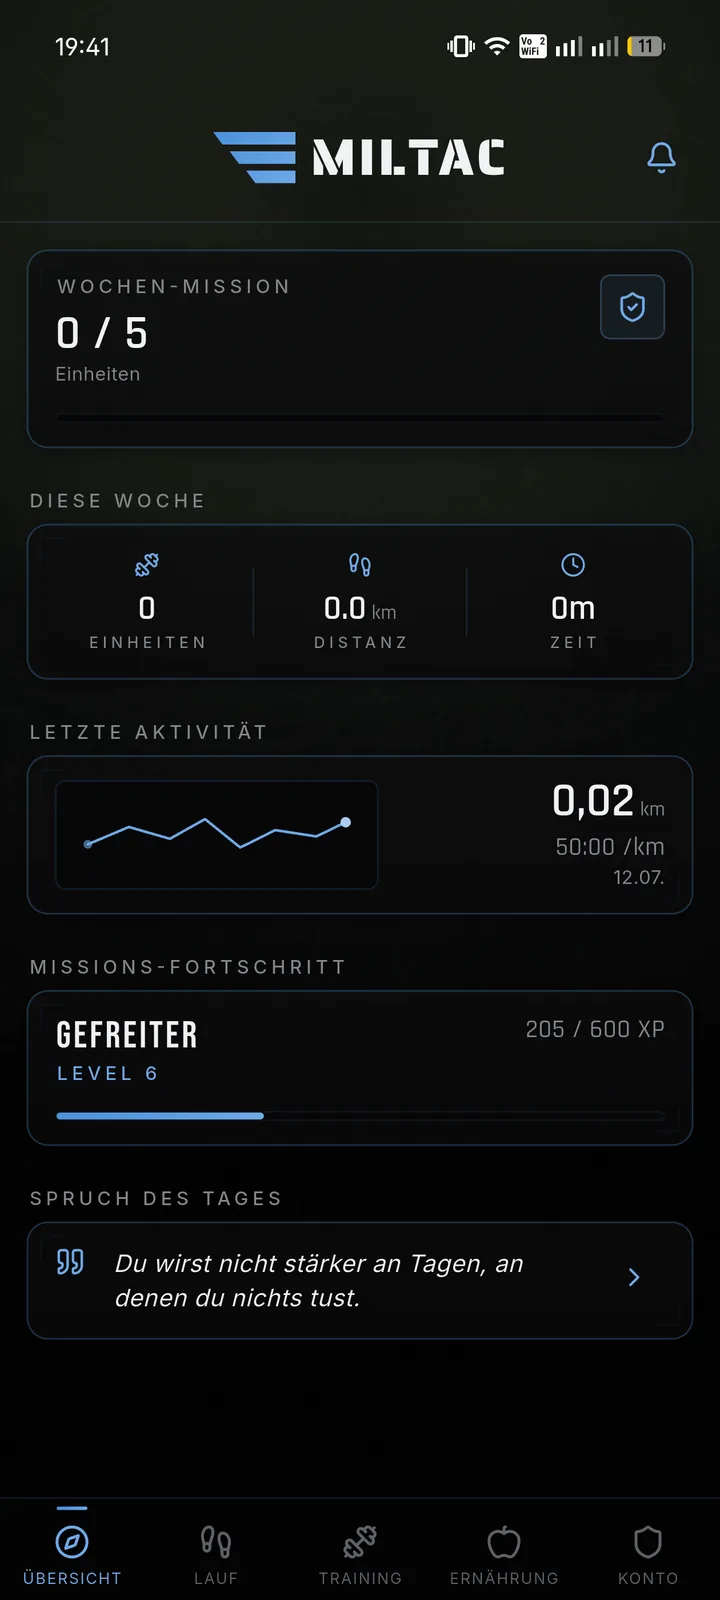
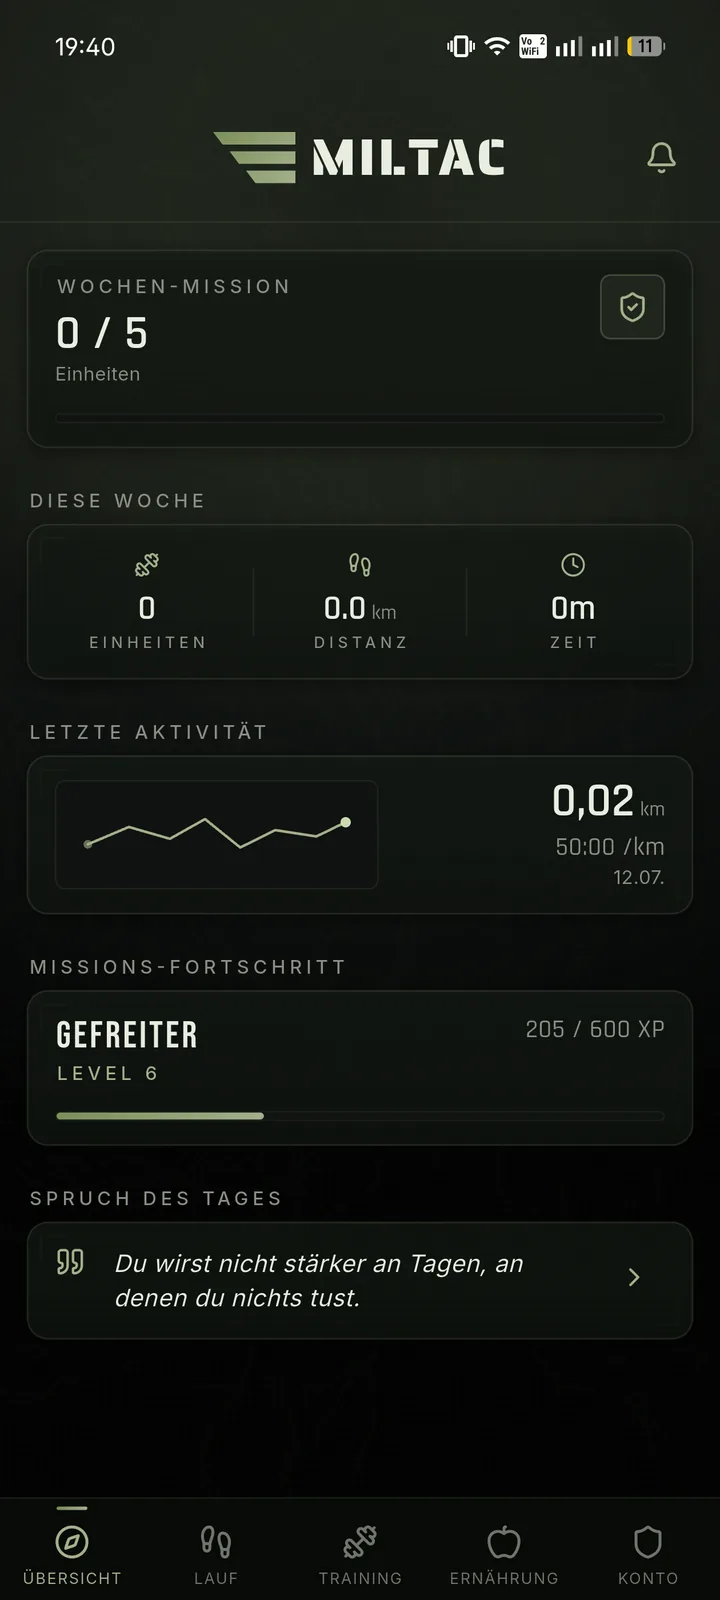
Add Übersicht screenshot and three-column app section; brand reference in README
Claude-Session: https://claude.ai/code/session_012DaZexe5eSJrjcBck6RWEU

diff --git a/index.html b/index.html
@@ -98,18 +98,16 @@
 
   <!-- ================= SCREENSHOTS ================= -->
   <section class="section alt" id="app">
-    <div class="container split">
-      <div>
-        <p class="eyebrow reveal">Ein Blick in die App</p>
-        <h2 class="reveal">Klar. Dunkel. Auf den Punkt.</h2>
-        <p class="lead reveal">Kein Feed, keine Ablenkung. Fünf Bereiche — Übersicht, Lauf, Training, Ernährung, Konto — und jede Zahl, die zählt, auf einen Blick.</p>
-        <ul class="checklist reveal">
-          <li><svg viewBox="0 0 24 24" fill="none" stroke="currentColor" stroke-width="2" stroke-linecap="round" stroke-linejoin="round" aria-hidden="true"><path d="M20 6 9 17l-5-5"/></svg><div><strong>Wochen-Mission &amp; Level-System</strong><span>Vom Rekruten aufwärts: Jede Einheit bringt XP, jede Woche ein Ziel.</span></div></li>
-          <li><svg viewBox="0 0 24 24" fill="none" stroke="currentColor" stroke-width="2" stroke-linecap="round" stroke-linejoin="round" aria-hidden="true"><path d="M20 6 9 17l-5-5"/></svg><div><strong>Fertige Einheiten nach Kategorie</strong><span>Laufen, Kraft, Kondition, Mobilität, Erholung — mit Dauer und Schwierigkeitsgrad.</span></div></li>
-          <li><svg viewBox="0 0 24 24" fill="none" stroke="currentColor" stroke-width="2" stroke-linecap="round" stroke-linejoin="round" aria-hidden="true"><path d="M20 6 9 17l-5-5"/></svg><div><strong>Makros im Blick</strong><span>Kalorien, Protein, Kohlenhydrate und Fett pro Mahlzeit und für den ganzen Tag.</span></div></li>
-        </ul>
-      </div>
+    <div class="container">
+      <p class="eyebrow reveal">Ein Blick in die App</p>
+      <h2 class="reveal">Klar. Dunkel. Auf den Punkt.</h2>
+      <p class="lead reveal">Kein Feed, keine Ablenkung. Fünf Bereiche — Übersicht, Lauf, Training, Ernährung, Konto — und jede Zahl, die zählt, auf einen Blick.</p>
+
       <div class="screens reveal">
+        <figure class="screen-frame">
+          <img src="assets/screen-uebersicht.webp" width="720" height="1600" loading="lazy" alt="MilTac Übersicht: Wochen-Mission, Statistiken der Woche, letzte Aktivität und Missions-Fortschritt">
+          <figcaption>Übersicht</figcaption>
+        </figure>
         <figure class="screen-frame">
           <img src="assets/screen-training.webp" width="720" height="1600" loading="lazy" alt="MilTac Training: Liste der Einheiten mit Kategorie, Schwierigkeit und Dauer">
           <figcaption>Training</figcaption>
@@ -118,6 +116,12 @@
           <img src="assets/screen-ernaehrung.webp" width="720" height="1600" loading="lazy" alt="MilTac Ernährung: Tagesübersicht mit Kalorien und Makronährstoffen">
           <figcaption>Ernährung</figcaption>
         </figure>
+      </div>
+
+      <div class="grid cols-3 screen-notes reveal">
+        <div><strong>Wochen-Mission &amp; Level-System</strong><span>Vom Rekruten aufwärts: Jede Einheit bringt XP, jede Woche ein Ziel.</span></div>
+        <div><strong>Fertige Einheiten nach Kategorie</strong><span>Laufen, Kraft, Kondition, Mobilität, Erholung — mit Dauer und Schwierigkeitsgrad.</span></div>
+        <div><strong>Makros im Blick</strong><span>Kalorien, Protein, Kohlenhydrate und Fett pro Mahlzeit und für den ganzen Tag.</span></div>
       </div>
     </div>
   </section>

diff --git a/style.css b/style.css
@@ -267,8 +267,12 @@ p { margin: 0 0 1em; }
 /* --------------------------------------------------------------------------
    App-Screenshots
    -------------------------------------------------------------------------- */
-.screens { display: grid; grid-template-columns: 1fr 1fr; gap: 20px; align-items: start; }
-.screens .screen-frame:nth-child(2) { margin-top: 56px; }
+.screens { display: grid; grid-template-columns: repeat(3, 1fr); gap: 24px; align-items: start; margin-top: 48px; max-width: 900px; }
+.screens .screen-frame:nth-child(2) { margin-top: -28px; }
+.screen-notes { margin-top: 44px; max-width: 900px; }
+.screen-notes div { border-top: 2px solid var(--accent); padding-top: 14px; }
+.screen-notes strong { display: block; margin-bottom: 4px; }
+.screen-notes span { color: var(--muted); font-size: 0.95rem; }
 .screen-frame {
   margin: 0;
   border-radius: 26px;
@@ -391,7 +395,14 @@ p { margin: 0 0 1em; }
   .hero { padding-top: 64px; }
   .phone { width: 250px; }
   .phone-img { width: min(100%, 320px); }
-  .screens .screen-frame:nth-child(2) { margin-top: 32px; }
+  .screens {
+    display: flex; gap: 16px; overflow-x: auto; scroll-snap-type: x mandatory;
+    padding: 8px 4px 20px; margin-top: 32px; max-width: none;
+    scrollbar-width: none;
+  }
+  .screens::-webkit-scrollbar { display: none; }
+  .screens .screen-frame { flex: 0 0 74%; scroll-snap-align: center; }
+  .screens .screen-frame:nth-child(2) { margin-top: 0; }
   .about-visual img { min-height: 0; height: 240px; }
   .about-visual .panel { position: static; width: auto; border-radius: 0; border: 0; border-top: 1px solid var(--border); background: var(--card); }
   .screen .s-box { padding: 9px 10px; }

diff --git a/README.md b/README.md
@@ -52,4 +52,10 @@ DNS-Änderungen brauchen je nach Anbieter einige Minuten bis wenige Stunden. Git
 
 - [ ] Google-Play-Link in `index.html` eintragen (zwei Stellen, mit `TODO` markiert), sobald die App gelistet ist
 - [ ] USt-IdNr. in `impressum.html` ergänzen, sobald erteilt (auskommentierter Block)
-- [ ] Optional: Screenshot der Übersicht im Oliv-Theme nachreichen (aktuell nur in Blau vorhanden, daher nicht eingebaut)
+
+## Marken-Kurzreferenz
+
+- **Farben:** Hintergrund `#0F1210`, Karten `#171D16`, Text `#E6E8E1`, gedämpft `#8A8F84`, Akzent Oliv `#A3B18A` (Streifen: `#8E9F70` / `#99A97F` / `#A3B18A`)
+- **Logo:** drei waagerechte Streifen, rechte Kante bündig, linke Kante schräg (oben längster Streifen) — Vektor in `assets/logo-mark.svg`
+- **Schriftzug:** „MILTAC" in *Black Ops One* (selbst gehostet, OFL) · Fließtext Systemschrift · Labels Monospace, Versalien, weite Laufweite
+- **Kontakt:** info@miltac.de · Inhaber Marco Huwer, Erikastraße 18, 82110 Germering
